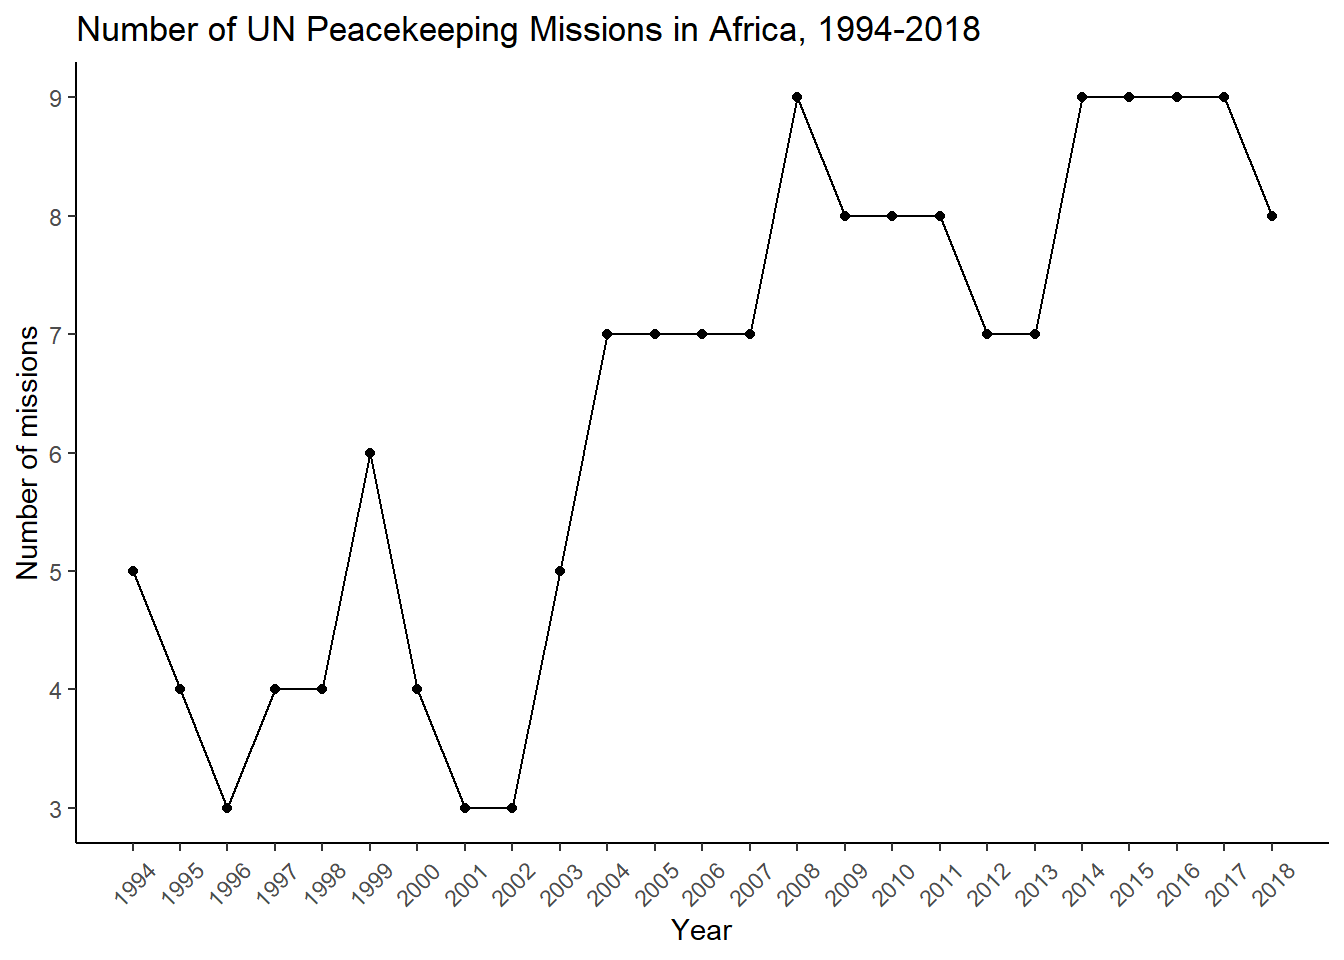
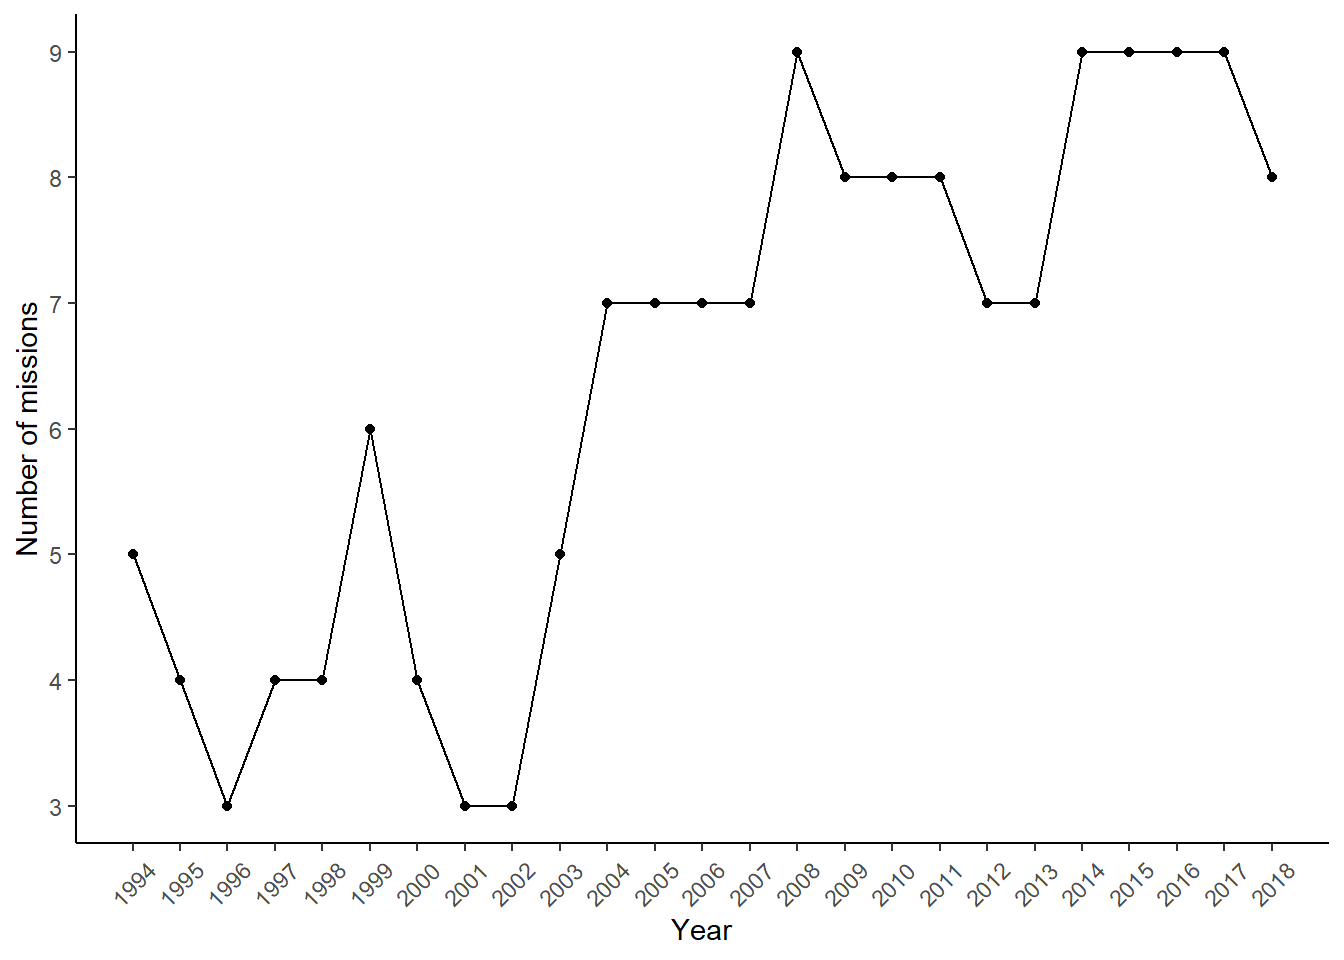
Build site.

diff --git a/docs/index.html b/docs/index.html
@@ -413,16 +413,16 @@ This reproducible <a href="http://rmarkdown.rstudio.com">R Markdown</a> analysis
 <div class="panel panel-default">
 <div class="panel-heading">
 <p class="panel-title">
-<a data-toggle="collapse" data-parent="#workflowr-checks" href="#strongRepositoryversionstrongahrefhttpsgithubcomhatnguyen267GeoPKOtree4db5b4facfdbf89e88977ca46fe7dca4188772a4targetblank4db5b4fa"> <span class="glyphicon glyphicon-ok text-success" aria-hidden="true"></span> <strong>Repository version:</strong> <a href="https://github.com/hatnguyen267/GeoPKO/tree/4db5b4facfdbf89e88977ca46fe7dca4188772a4" target="_blank">4db5b4f</a> </a>
+<a data-toggle="collapse" data-parent="#workflowr-checks" href="#strongRepositoryversionstrongahrefhttpsgithubcomhatnguyen267GeoPKOtree0a3c9c9d5686ea117ea1cea12f7433c074467dc1targetblank0a3c9c9a"> <span class="glyphicon glyphicon-ok text-success" aria-hidden="true"></span> <strong>Repository version:</strong> <a href="https://github.com/hatnguyen267/GeoPKO/tree/0a3c9c9d5686ea117ea1cea12f7433c074467dc1" target="_blank">0a3c9c9</a> </a>
 </p>
 </div>
[2 lines of base64/hex data omitted]
 <div class="panel-body">
 <p>
 Great! You are using Git for version control. Tracking code development and connecting the code version to the results is critical for reproducibility.
 </p>
 <p>
-The results in this page were generated with repository version <a href="https://github.com/hatnguyen267/GeoPKO/tree/4db5b4facfdbf89e88977ca46fe7dca4188772a4" target="_blank">4db5b4f</a>. See the <em>Past versions</em> tab to see a history of the changes made to the R Markdown and HTML files.
+The results in this page were generated with repository version <a href="https://github.com/hatnguyen267/GeoPKO/tree/0a3c9c9d5686ea117ea1cea12f7433c074467dc1" target="_blank">0a3c9c9</a>. See the <em>Past versions</em> tab to see a history of the changes made to the R Markdown and HTML files.
 </p>
 <p>
 Note that you need to be careful to ensure that all relevant files for the analysis have been committed to Git prior to generating the results (you can use <code>wflow_publish</code> or <code>wflow_git_commit</code>). workflowr only checks the R Markdown file, but you know if there are other scripts or data files that it depends on. Below is the status of the Git repository when the results were generated:
@@ -471,6 +471,40 @@ Message
 </tr>
 </thead>
 <tbody>
+<tr>
+<td>
+Rmd
+</td>
+<td>
+<a href="https://github.com/hatnguyen267/GeoPKO/blob/0a3c9c9d5686ea117ea1cea12f7433c074467dc1/analysis/index.Rmd" target="_blank">0a3c9c9</a>
+</td>
+<td>
+hatnguyen267
+</td>
+<td>
+2020-06-29
+</td>
+<td>
+more to index.rmb
+</td>
+</tr>
+<tr>
+<td>
+html
+</td>
+<td>
+<a href="https://rawcdn.githack.com/hatnguyen267/GeoPKO/50d7b310a2e0cb947af5b4b47bab1c01a9db53e9/docs/index.html" target="_blank">50d7b31</a>
+</td>
+<td>
+hatnguyen267
+</td>
+<td>
+2020-06-29
+</td>
+<td>
+Build site.
+</td>
+</tr>
 <tr>
 <td>
 Rmd
@@ -546,7 +580,7 @@ Start workflowr project.
 </div>
 </div>
 </div>
-<p>This document contains a series of steps that the project members have performed to explore the Geo-PKO dataset.</p>
+<p>This document contains a series of steps that the project members have performed to explore the Geo-PKO dataset. More information on the dataset can be found on its <a href="https://www.pcr.uu.se/data/geo-pko/">homepage</a>.</p>
 <p>Load packages.</p>
 <pre class="r"><code>library(tidyverse)
 library(readr)
@@ -580,13 +614,13 @@ library(ggthemes)</code></pre>
 #   TCC5 &lt;dbl&gt;, TCC6 &lt;dbl&gt;, TCC7 &lt;dbl&gt;, TCC8 &lt;dbl&gt;, TCC9 &lt;dbl&gt;, TCC10 &lt;lgl&gt;,
 #   TCC11 &lt;lgl&gt;, TCC12 &lt;lgl&gt;, TCC13 &lt;lgl&gt;, TCC14 &lt;lgl&gt;, ADM1_id &lt;dbl&gt;,
 #   ADM1_name &lt;chr&gt;, ADM2_id &lt;dbl&gt;, ADM2_name &lt;chr&gt;, PRIOID &lt;dbl&gt;</code></pre>
+<p>The dataset covers UN peacekeeping missions in Africa between 1994 and 2018. We can use the dataset to extract the number of active missions during this period.</p>
 <pre class="r"><code>NoMission &lt;- GeoPKO %&gt;% select(year, Mission) %&gt;% distinct(year, Mission) %&gt;% count(year)
 Plot1 &lt;- ggplot(NoMission, aes(x=(as.numeric(year)), y=n)) + geom_point() + geom_line(size=0.5) +
   scale_x_continuous(&quot;Year&quot;, breaks=seq(1994, 2018, 1))+theme_classic()+
   scale_y_continuous(&quot;Number of missions&quot;, breaks=seq(0,10,1)) +
   theme(panel.grid=element_blank(), 
-        axis.text.x=element_text(angle=45, vjust=0.5)) +
-  ggtitle(&quot;Number of UN Peacekeeping Missions in Africa, 1994-2018&quot;)
+        axis.text.x=element_text(angle=45, vjust=0.5)) 
 Plot1</code></pre>
 <p><img src="figure/index.Rmd/unnamed-chunk-4-1.png" width="672" style="display: block; margin: auto;" /></p>
 <br>
